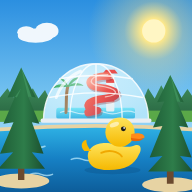
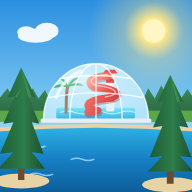
Domaine des Pins : icône sans le canard en plastique
Claude-Session: https://claude.ai/code/session_01EgfXPBZ77RadiTohRXdL5s

Changed region(s): [[0.4062, 0.5938, 0.75, 0.9062]]

diff --git a/pins/sw.js b/pins/sw.js
@@ -2,7 +2,7 @@
 // Le jeu est gardé sur l'appareil et marche sans réseau (en solo). Il ne change que
 // lorsqu'on appuie sur « Mettre à jour » sur l'écran d'accueil du jeu.
 // Le relais du jeu à plusieurs passe par WebSocket : il n'est jamais intercepté ici.
-const CACHE = "pins-v4";
+const CACHE = "pins-v5";
 const BASE = "https://cdn.jsdelivr.net/npm/three@0.170.0/";
 const FICHIERS = [
   "./", "./manifest.webmanifest", "./icone-192.png", "./icone-512.png", "./apple-touch-icon.png",
